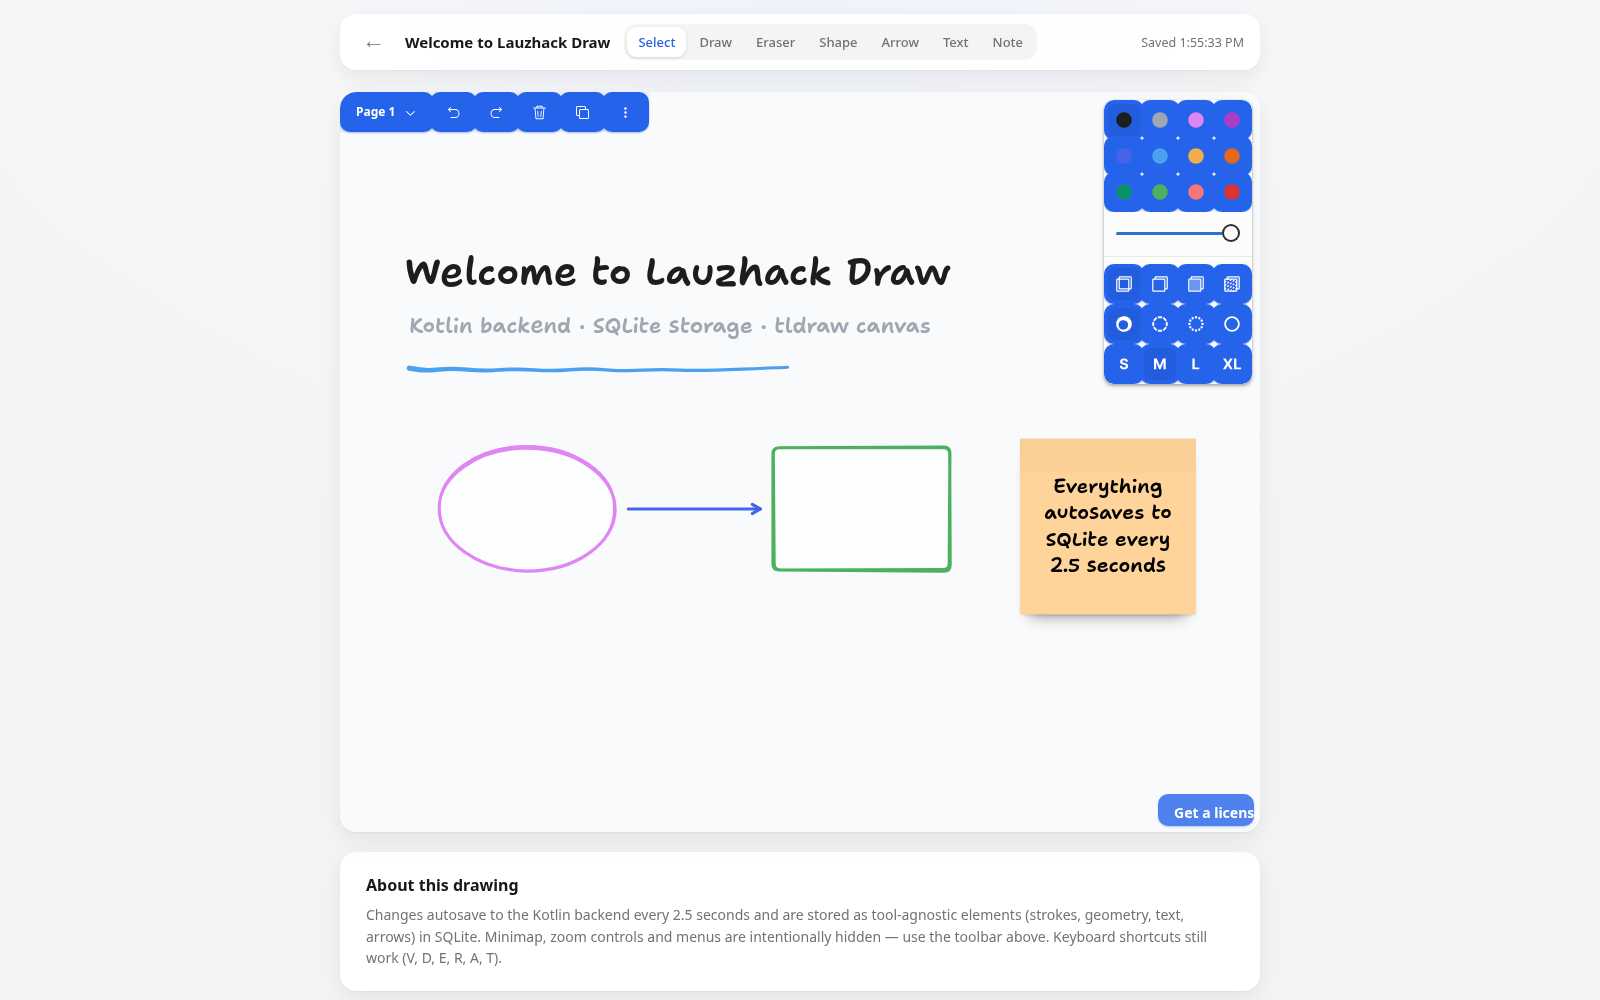
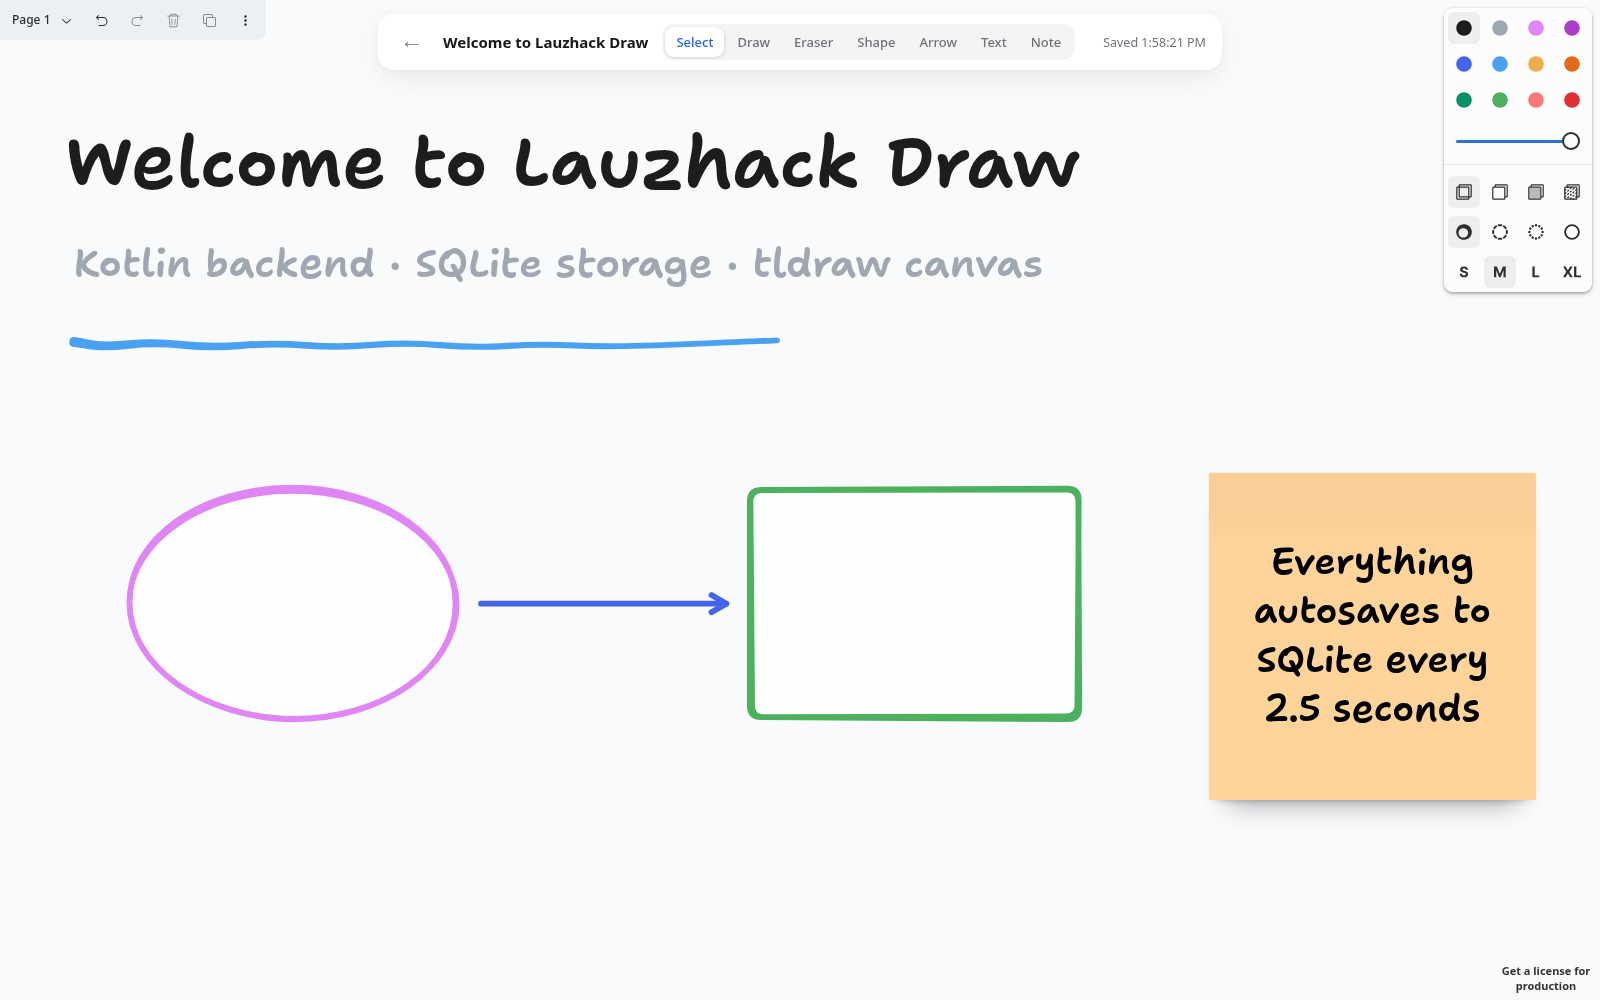
Full-page canvas with floating toolbar
- canvas fills the viewport again; home page keeps the card design
- top bar floats centered on top of the canvas (tools + autosave status)
- hero screenshot retaken for the new layout

diff --git a/web/src/jsMain/kotlin/com/lauzhack/web/ui/App.kt b/web/src/jsMain/kotlin/com/lauzhack/web/ui/App.kt
@@ -50,49 +50,16 @@ val App = FC<Props> {
 
     val openId = selected
 
-    ReactHTML.div {
-        className = ClassName("page")
+    if (openId == null) {
+        // ---------------- home: vertical scrolling document of cards ----------------
+        ReactHTML.div {
+            className = ClassName("page")
 
-        // ------- sticky top bar -------
-        ReactHTML.header {
-            className = ClassName("topbar")
-
-            if (openId == null) {
-                ReactHTML.div {
-                    className = ClassName("title")
-                    +"Lauzhack Draw"
-                }
-                ReactHTML.div { className = ClassName("grow") }
-                ReactHTML.span {
-                    className = ClassName("status")
-                    +"Kotlin · SQLite · tldraw"
-                }
-            } else {
-                ReactHTML.button {
-                    className = ClassName("ghost")
-                    +"←"
-                    onClick = { _ ->
-                        selected = null
-                        activeEditor = null
-                        savedAt = null
-                    }
-                }
-                ReactHTML.div {
-                    className = ClassName("title")
-                    val doc = documents?.find { it.id == openId }
-                    +(doc?.name ?: "Drawing")
-                }
-                Toolbar { editor = activeEditor }
-                ReactHTML.div { className = ClassName("grow") }
-                ReactHTML.span {
-                    className = ClassName("status")
-                    +(savedAt?.let { "Saved $it" } ?: "Not saved yet")
-                }
+            TopBar {
+                title = "Lauzhack Draw"
+                subtitle = "Kotlin · SQLite · tldraw"
             }
-        }
 
-        if (openId == null) {
-            // ------- home: documents as cards -------
             ReactHTML.section {
                 className = ClassName("card card-pad")
                 ReactHTML.div {
@@ -146,29 +113,30 @@ val App = FC<Props> {
                     }
                 }
             }
-        } else {
-            // ------- drawing: canvas card in the scrolling document -------
-            ReactHTML.section {
-                className = ClassName("card canvas-card")
-                ReactHTML.div {
-                    className = ClassName("canvas-fill")
-                    Canvas {
-                        documentId = openId
-                        onReady = { activeEditor = it }
-                        onSaved = { savedAt = nowTime() }
-                    }
+        }
+    } else {
+        // ---------------- drawing: full-page canvas with floating toolbar ----------------
+        ReactHTML.div {
+            className = ClassName("fullscreen-page")
+
+            TopBar {
+                title = documents?.find { it.id == openId }?.name ?: "Drawing"
+                subtitle = savedAt?.let { "Saved $it" } ?: "Not saved yet"
+                editor = activeEditor
+                showTools = true
+                onBack = {
+                    selected = null
+                    activeEditor = null
+                    savedAt = null
                 }
             }
 
-            ReactHTML.section {
-                className = ClassName("card card-pad about")
-                ReactHTML.h2 { +"About this drawing" }
-                ReactHTML.p {
-                    className = ClassName("muted")
-                    +"Changes autosave to the Kotlin backend every 2.5 seconds and are stored as "
-                    +"tool-agnostic elements (strokes, geometry, text, arrows) in SQLite. "
-                    +"Minimap, zoom controls and menus are intentionally hidden — use the toolbar above. "
-                    +"Keyboard shortcuts still work (V, D, E, R, A, T)."
+            ReactHTML.div {
+                className = ClassName("canvas-fill")
+                Canvas {
+                    documentId = openId
+                    onReady = { activeEditor = it }
+                    onSaved = { savedAt = nowTime() }
                 }
             }
         }

diff --git a/web/src/jsMain/kotlin/com/lauzhack/web/ui/TopBar.kt b/web/src/jsMain/kotlin/com/lauzhack/web/ui/TopBar.kt
@@ -1,0 +1,45 @@
+package com.lauzhack.web.ui
+
+import com.lauzhack.web.tldraw.Editor
+import react.FC
+import react.Props
+import react.dom.html.ReactHTML
+import web.cssom.ClassName
+
+external interface TopBarProps : Props {
+    var title: String
+    var subtitle: String?
+    var editor: Editor?
+    var showTools: Boolean
+    var onBack: (() -> Unit)?
+}
+
+val TopBar = FC<TopBarProps> { props ->
+    ReactHTML.header {
+        className = ClassName("topbar")
+
+        if (props.onBack != null) {
+            ReactHTML.button {
+                className = ClassName("ghost")
+                +"←"
+                onClick = { _ -> props.onBack?.invoke() }
+            }
+        }
+
+        ReactHTML.div {
+            className = ClassName("title")
+            +props.title
+        }
+
+        if (props.showTools) {
+            Toolbar { editor = props.editor }
+        }
+
+        ReactHTML.div { className = ClassName("grow") }
+
+        ReactHTML.span {
+            className = ClassName("status")
+            +(props.subtitle ?: "")
+        }
+    }
+}

diff --git a/web/src/jsMain/resources/index.html b/web/src/jsMain/resources/index.html
@@ -222,26 +222,29 @@
 			font-size: 12.5px;
 		}
 
-		/* ------- canvas card ------- */
-		.canvas-card {
-			position: relative;
-			height: 74vh;
-			min-height: 480px;
+		/* ------- canvas: full page, toolbar floats on top ------- */
+		.fullscreen-page {
+			position: fixed;
+			inset: 0;
 		}
 
-		.canvas-fill {
+		.fullscreen-page .topbar {
+			position: absolute;
+			top: 14px;
+			left: 50%;
+			transform: translateX(-50%);
+			width: max-content;
+			max-width: calc(100vw - 28px);
+			margin: 0;
+		}
+
+		.fullscreen-page .canvas-fill {
 			position: absolute;
 			inset: 0;
 		}
 
-		.about h2 {
-			font-size: 16px;
-			margin: 0 0 8px;
-		}
-
-		.about p {
-			margin: 0;
-			line-height: 1.55;
+		.fullscreen-page .tl-container {
+			border-radius: 0;
 		}
 
 		/* tldraw tweaks to blend into the card */
